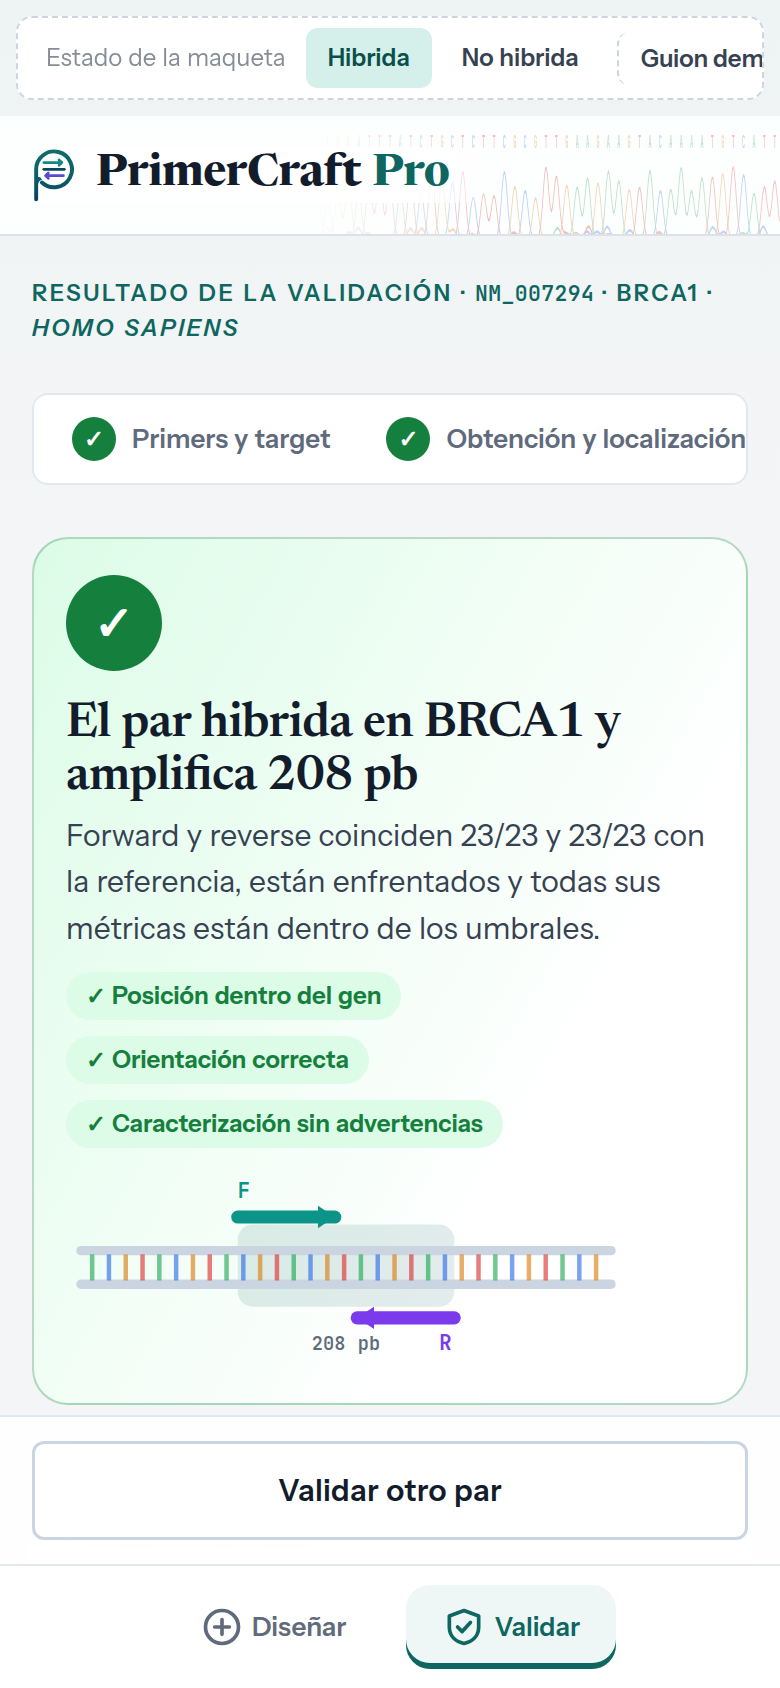
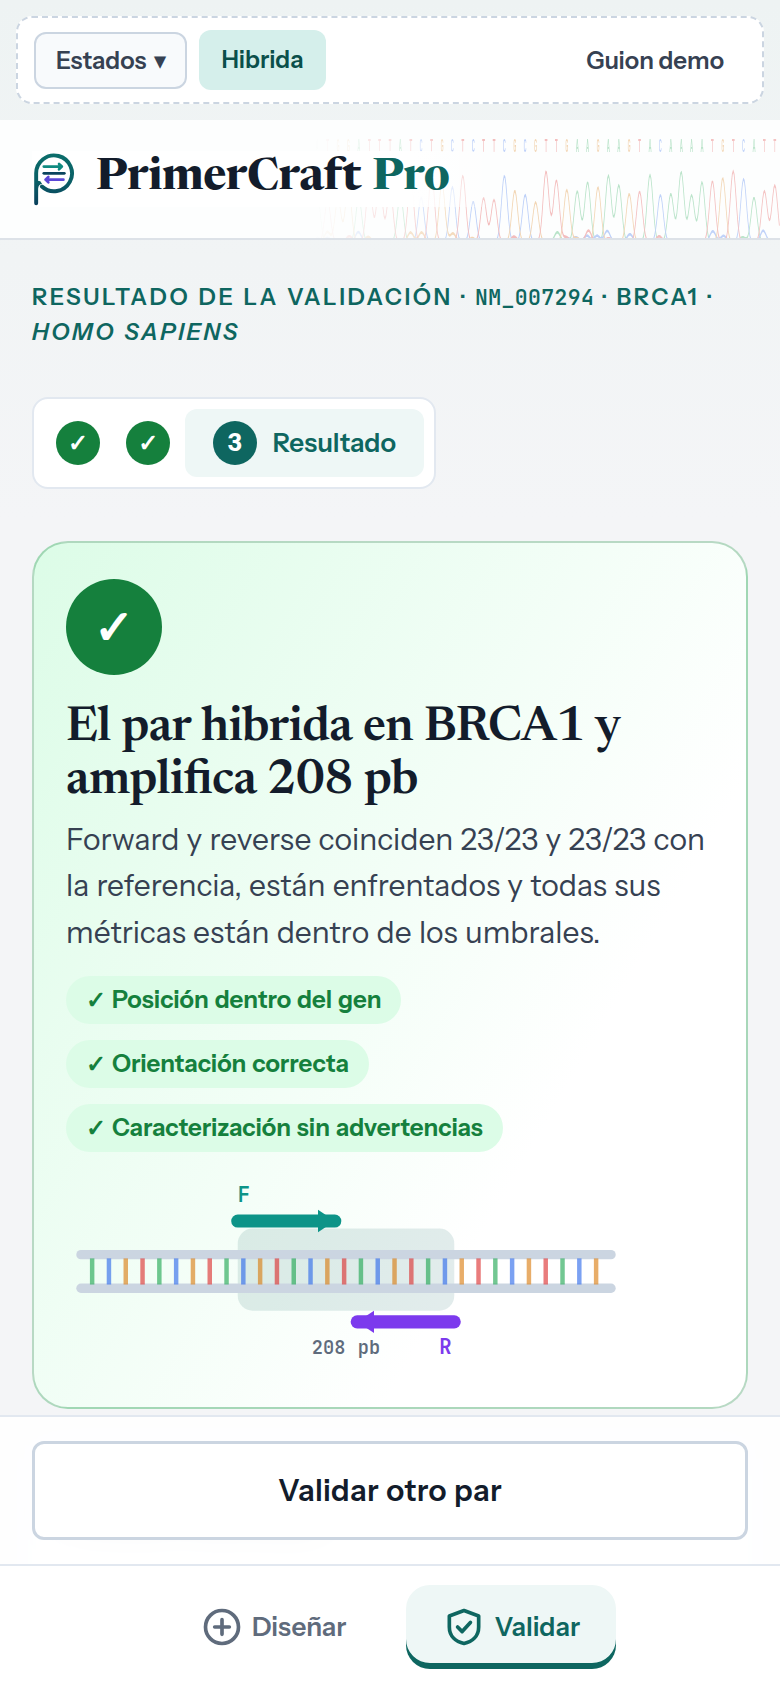
fix(mockups): ajusto la barra de estados, el indicador de pasos, los filtros, la tabla y las secuencias para que se vean bien en el teléfono

diff --git a/docs/ui/mockups/hu-01-1_nueva-corrida-diseno.html b/docs/ui/mockups/hu-01-1_nueva-corrida-diseno.html
@@ -574,6 +574,62 @@ dialog.dlg .row{display:flex;gap:10px;justify-content:flex-end;margin-top:22px;f
 @media (max-width:640px){.rail .kb{display:none}.toast-host{bottom:200px}}
 @media (prefers-reduced-motion:reduce){.toast,.errsum,.flash{animation:none}::view-transition-group(*),::view-transition-old(*),::view-transition-new(*){animation:none!important}}
 </style>
+<style id="ajustes-telefono">
+/* ===== Ajustes para teléfono =====
+   La barra "Estado de la maqueta" se pliega: muestra el estado actual y "Estados" despliega el resto.
+   El indicador de pasos muestra el texto solo en el paso actual. */
+.mock .mtog,.mock .mbr{display:none}
+@media (max-width:640px){
+  .mock{flex-wrap:wrap;white-space:normal;overflow:visible;gap:6px;padding:6px 8px;align-items:center}
+  .mock em{display:none}
+  .mock .mtog{display:inline-flex;align-items:center;gap:4px;order:0;border:1px solid var(--line-2);background:var(--surface-2);font:600 12px var(--sans);color:var(--ink-2);padding:6px 10px;border-radius:6px;cursor:pointer}
+  .mock .mtog::after{content:"▾";font-size:11px}
+  .mock.open .mtog::after{content:"▴"}
+  .mock label{order:1}
+  .mock:not(.open) label{display:none}
+  .mock:not(.open) :is(#st1:checked~.mock label[for=st1],#st2:checked~.mock label[for=st2],#st3:checked~.mock label[for=st3],#st4:checked~.mock label[for=st4],#st5:checked~.mock label[for=st5],#st6:checked~.mock label[for=st6],#st7:checked~.mock label[for=st7]){display:inline-flex}
+  #st1:checked~#flujo-b:target~.mock:not(.open) label[for=st1]{display:none}
+  #st1:checked~#flujo-b:target~.mock:not(.open) label[for=st6]{display:inline-flex}
+  .mock .demo{order:2;margin-left:auto;border-left:0}
+  .mock.open .mbr{display:block;order:3;flex-basis:100%;height:0}
+  .mock.open label{order:4;display:inline-flex}
+  .demo-pop{position:static;width:auto;margin:0 8px 8px}
+  .stepper{overflow:visible}
+  .stepper span:not(.cur){font-size:0;gap:0;padding:4px 6px}
+  .seg{flex-wrap:wrap;white-space:normal;overflow:visible}
+  .ed textarea{font-size:15px;letter-spacing:.06em}
+  .seg span{flex:1 1 auto;text-align:center}
+  .aln:not(.fin){-webkit-mask-image:linear-gradient(90deg,#000 78%,transparent);mask-image:linear-gradient(90deg,#000 78%,transparent)}
+  [data-pantalla=ui-5] .tbl,[data-pantalla=ui-5] .tbl tbody{display:block;white-space:normal}
+  [data-pantalla=ui-5] .tbl thead{display:none}
+  [data-pantalla=ui-5] .tbl tr{display:grid;grid-template-columns:1fr auto;align-items:center;gap:6px 10px;padding:10px 0;border-bottom:1px solid var(--line)}
+  [data-pantalla=ui-5] .tbl td{padding:0;border:0}
+  [data-pantalla=ui-5] .tbl td:nth-child(5){grid-column:2;grid-row:1;text-align:right;font-weight:700}
+  [data-pantalla=ui-5] .tbl td:nth-child(2){grid-column:1/-1}
+  [data-pantalla=ui-5] .tbl td:nth-child(3){color:var(--muted)}
+  [data-pantalla=ui-5] .tbl td:nth-child(3)::before{content:"Hebra "}
+  [data-pantalla=ui-5] .tbl td:nth-child(4){text-align:right}
+}
+</style>
+<script>
+document.addEventListener('DOMContentLoaded', () => {
+  const m = document.querySelector('.mock');
+  if (m) {
+    const b = document.createElement('button');
+    b.type = 'button'; b.className = 'mtog'; b.textContent = 'Estados'; b.setAttribute('aria-expanded', 'false');
+    const br = document.createElement('span'); br.className = 'mbr'; br.setAttribute('aria-hidden', 'true');
+    m.prepend(b); m.append(br);
+    const cerrar = () => { m.classList.remove('open'); b.setAttribute('aria-expanded', 'false'); };
+    b.addEventListener('click', () => b.setAttribute('aria-expanded', String(m.classList.toggle('open'))));
+    document.querySelectorAll('input.st[type=radio]').forEach((r) => r.addEventListener('change', cerrar));
+  }
+  // alineaciones: el degradé del borde indica que se puede deslizar; desaparece al llegar al final
+  document.querySelectorAll('.aln').forEach((a) => {
+    const ver = () => a.classList.toggle('fin', a.scrollLeft + a.clientWidth >= a.scrollWidth - 2);
+    a.addEventListener('scroll', ver, { passive: true }); ver(); window.addEventListener('resize', ver);
+  });
+});
+</script>
 </head>
 <body data-pantalla="ui-1">
 <a class="skip" href="#contenido">Saltar al contenido</a>

diff --git a/docs/ui/mockups/hu-03-1_validar-primer.html b/docs/ui/mockups/hu-03-1_validar-primer.html
@@ -567,6 +567,62 @@ dialog.dlg .row{display:flex;gap:10px;justify-content:flex-end;margin-top:22px;f
 @media (max-width:640px){.rail .kb{display:none}.toast-host{bottom:200px}}
 @media (prefers-reduced-motion:reduce){.toast,.errsum,.flash{animation:none}::view-transition-group(*),::view-transition-old(*),::view-transition-new(*){animation:none!important}}
 </style>
+<style id="ajustes-telefono">
+/* ===== Ajustes para teléfono =====
+   La barra "Estado de la maqueta" se pliega: muestra el estado actual y "Estados" despliega el resto.
+   El indicador de pasos muestra el texto solo en el paso actual. */
+.mock .mtog,.mock .mbr{display:none}
+@media (max-width:640px){
+  .mock{flex-wrap:wrap;white-space:normal;overflow:visible;gap:6px;padding:6px 8px;align-items:center}
+  .mock em{display:none}
+  .mock .mtog{display:inline-flex;align-items:center;gap:4px;order:0;border:1px solid var(--line-2);background:var(--surface-2);font:600 12px var(--sans);color:var(--ink-2);padding:6px 10px;border-radius:6px;cursor:pointer}
+  .mock .mtog::after{content:"▾";font-size:11px}
+  .mock.open .mtog::after{content:"▴"}
+  .mock label{order:1}
+  .mock:not(.open) label{display:none}
+  .mock:not(.open) :is(#st1:checked~.mock label[for=st1],#st2:checked~.mock label[for=st2],#st3:checked~.mock label[for=st3],#st4:checked~.mock label[for=st4],#st5:checked~.mock label[for=st5],#st6:checked~.mock label[for=st6],#st7:checked~.mock label[for=st7]){display:inline-flex}
+  #st1:checked~#flujo-b:target~.mock:not(.open) label[for=st1]{display:none}
+  #st1:checked~#flujo-b:target~.mock:not(.open) label[for=st6]{display:inline-flex}
+  .mock .demo{order:2;margin-left:auto;border-left:0}
+  .mock.open .mbr{display:block;order:3;flex-basis:100%;height:0}
+  .mock.open label{order:4;display:inline-flex}
+  .demo-pop{position:static;width:auto;margin:0 8px 8px}
+  .stepper{overflow:visible}
+  .stepper span:not(.cur){font-size:0;gap:0;padding:4px 6px}
+  .seg{flex-wrap:wrap;white-space:normal;overflow:visible}
+  .ed textarea{font-size:15px;letter-spacing:.06em}
+  .seg span{flex:1 1 auto;text-align:center}
+  .aln:not(.fin){-webkit-mask-image:linear-gradient(90deg,#000 78%,transparent);mask-image:linear-gradient(90deg,#000 78%,transparent)}
+  [data-pantalla=ui-5] .tbl,[data-pantalla=ui-5] .tbl tbody{display:block;white-space:normal}
+  [data-pantalla=ui-5] .tbl thead{display:none}
+  [data-pantalla=ui-5] .tbl tr{display:grid;grid-template-columns:1fr auto;align-items:center;gap:6px 10px;padding:10px 0;border-bottom:1px solid var(--line)}
+  [data-pantalla=ui-5] .tbl td{padding:0;border:0}
+  [data-pantalla=ui-5] .tbl td:nth-child(5){grid-column:2;grid-row:1;text-align:right;font-weight:700}
+  [data-pantalla=ui-5] .tbl td:nth-child(2){grid-column:1/-1}
+  [data-pantalla=ui-5] .tbl td:nth-child(3){color:var(--muted)}
+  [data-pantalla=ui-5] .tbl td:nth-child(3)::before{content:"Hebra "}
+  [data-pantalla=ui-5] .tbl td:nth-child(4){text-align:right}
+}
+</style>
+<script>
+document.addEventListener('DOMContentLoaded', () => {
+  const m = document.querySelector('.mock');
+  if (m) {
+    const b = document.createElement('button');
+    b.type = 'button'; b.className = 'mtog'; b.textContent = 'Estados'; b.setAttribute('aria-expanded', 'false');
+    const br = document.createElement('span'); br.className = 'mbr'; br.setAttribute('aria-hidden', 'true');
+    m.prepend(b); m.append(br);
+    const cerrar = () => { m.classList.remove('open'); b.setAttribute('aria-expanded', 'false'); };
+    b.addEventListener('click', () => b.setAttribute('aria-expanded', String(m.classList.toggle('open'))));
+    document.querySelectorAll('input.st[type=radio]').forEach((r) => r.addEventListener('change', cerrar));
+  }
+  // alineaciones: el degradé del borde indica que se puede deslizar; desaparece al llegar al final
+  document.querySelectorAll('.aln').forEach((a) => {
+    const ver = () => a.classList.toggle('fin', a.scrollLeft + a.clientWidth >= a.scrollWidth - 2);
+    a.addEventListener('scroll', ver, { passive: true }); ver(); window.addEventListener('resize', ver);
+  });
+});
+</script>
 </head>
 <body data-pantalla="ui-4">
 <a class="skip" href="#contenido">Saltar al contenido</a>

diff --git a/docs/ui/mockups/hu-03-3_resultado-validacion.html b/docs/ui/mockups/hu-03-3_resultado-validacion.html
@@ -574,6 +574,62 @@ dialog.dlg .row{display:flex;gap:10px;justify-content:flex-end;margin-top:22px;f
 @media (max-width:640px){.rail .kb{display:none}.toast-host{bottom:200px}}
 @media (prefers-reduced-motion:reduce){.toast,.errsum,.flash{animation:none}::view-transition-group(*),::view-transition-old(*),::view-transition-new(*){animation:none!important}}
 </style>
+<style id="ajustes-telefono">
+/* ===== Ajustes para teléfono =====
+   La barra "Estado de la maqueta" se pliega: muestra el estado actual y "Estados" despliega el resto.
+   El indicador de pasos muestra el texto solo en el paso actual. */
+.mock .mtog,.mock .mbr{display:none}
+@media (max-width:640px){
+  .mock{flex-wrap:wrap;white-space:normal;overflow:visible;gap:6px;padding:6px 8px;align-items:center}
+  .mock em{display:none}
+  .mock .mtog{display:inline-flex;align-items:center;gap:4px;order:0;border:1px solid var(--line-2);background:var(--surface-2);font:600 12px var(--sans);color:var(--ink-2);padding:6px 10px;border-radius:6px;cursor:pointer}
+  .mock .mtog::after{content:"▾";font-size:11px}
+  .mock.open .mtog::after{content:"▴"}
+  .mock label{order:1}
+  .mock:not(.open) label{display:none}
+  .mock:not(.open) :is(#st1:checked~.mock label[for=st1],#st2:checked~.mock label[for=st2],#st3:checked~.mock label[for=st3],#st4:checked~.mock label[for=st4],#st5:checked~.mock label[for=st5],#st6:checked~.mock label[for=st6],#st7:checked~.mock label[for=st7]){display:inline-flex}
+  #st1:checked~#flujo-b:target~.mock:not(.open) label[for=st1]{display:none}
+  #st1:checked~#flujo-b:target~.mock:not(.open) label[for=st6]{display:inline-flex}
+  .mock .demo{order:2;margin-left:auto;border-left:0}
+  .mock.open .mbr{display:block;order:3;flex-basis:100%;height:0}
+  .mock.open label{order:4;display:inline-flex}
+  .demo-pop{position:static;width:auto;margin:0 8px 8px}
+  .stepper{overflow:visible}
+  .stepper span:not(.cur){font-size:0;gap:0;padding:4px 6px}
+  .seg{flex-wrap:wrap;white-space:normal;overflow:visible}
+  .ed textarea{font-size:15px;letter-spacing:.06em}
+  .seg span{flex:1 1 auto;text-align:center}
+  .aln:not(.fin){-webkit-mask-image:linear-gradient(90deg,#000 78%,transparent);mask-image:linear-gradient(90deg,#000 78%,transparent)}
+  [data-pantalla=ui-5] .tbl,[data-pantalla=ui-5] .tbl tbody{display:block;white-space:normal}
+  [data-pantalla=ui-5] .tbl thead{display:none}
+  [data-pantalla=ui-5] .tbl tr{display:grid;grid-template-columns:1fr auto;align-items:center;gap:6px 10px;padding:10px 0;border-bottom:1px solid var(--line)}
+  [data-pantalla=ui-5] .tbl td{padding:0;border:0}
+  [data-pantalla=ui-5] .tbl td:nth-child(5){grid-column:2;grid-row:1;text-align:right;font-weight:700}
+  [data-pantalla=ui-5] .tbl td:nth-child(2){grid-column:1/-1}
+  [data-pantalla=ui-5] .tbl td:nth-child(3){color:var(--muted)}
+  [data-pantalla=ui-5] .tbl td:nth-child(3)::before{content:"Hebra "}
+  [data-pantalla=ui-5] .tbl td:nth-child(4){text-align:right}
+}
+</style>
+<script>
+document.addEventListener('DOMContentLoaded', () => {
+  const m = document.querySelector('.mock');
+  if (m) {
+    const b = document.createElement('button');
+    b.type = 'button'; b.className = 'mtog'; b.textContent = 'Estados'; b.setAttribute('aria-expanded', 'false');
+    const br = document.createElement('span'); br.className = 'mbr'; br.setAttribute('aria-hidden', 'true');
+    m.prepend(b); m.append(br);
+    const cerrar = () => { m.classList.remove('open'); b.setAttribute('aria-expanded', 'false'); };
+    b.addEventListener('click', () => b.setAttribute('aria-expanded', String(m.classList.toggle('open'))));
+    document.querySelectorAll('input.st[type=radio]').forEach((r) => r.addEventListener('change', cerrar));
+  }
+  // alineaciones: el degradé del borde indica que se puede deslizar; desaparece al llegar al final
+  document.querySelectorAll('.aln').forEach((a) => {
+    const ver = () => a.classList.toggle('fin', a.scrollLeft + a.clientWidth >= a.scrollWidth - 2);
+    a.addEventListener('scroll', ver, { passive: true }); ver(); window.addEventListener('resize', ver);
+  });
+});
+</script>
 </head>
 <body data-pantalla="ui-5">
 <a class="skip" href="#contenido">Saltar al contenido</a>

diff --git a/docs/ui/mockups/hu-04_hu-02-1_progreso-corrida.html b/docs/ui/mockups/hu-04_hu-02-1_progreso-corrida.html
@@ -598,6 +598,62 @@ dialog.dlg .row{display:flex;gap:10px;justify-content:flex-end;margin-top:22px;f
 @media (max-width:640px){.rail .kb{display:none}.toast-host{bottom:200px}}
 @media (prefers-reduced-motion:reduce){.toast,.errsum,.flash{animation:none}::view-transition-group(*),::view-transition-old(*),::view-transition-new(*){animation:none!important}}
 </style>
+<style id="ajustes-telefono">
+/* ===== Ajustes para teléfono =====
+   La barra "Estado de la maqueta" se pliega: muestra el estado actual y "Estados" despliega el resto.
+   El indicador de pasos muestra el texto solo en el paso actual. */
+.mock .mtog,.mock .mbr{display:none}
+@media (max-width:640px){
+  .mock{flex-wrap:wrap;white-space:normal;overflow:visible;gap:6px;padding:6px 8px;align-items:center}
+  .mock em{display:none}
+  .mock .mtog{display:inline-flex;align-items:center;gap:4px;order:0;border:1px solid var(--line-2);background:var(--surface-2);font:600 12px var(--sans);color:var(--ink-2);padding:6px 10px;border-radius:6px;cursor:pointer}
+  .mock .mtog::after{content:"▾";font-size:11px}
+  .mock.open .mtog::after{content:"▴"}
+  .mock label{order:1}
+  .mock:not(.open) label{display:none}
+  .mock:not(.open) :is(#st1:checked~.mock label[for=st1],#st2:checked~.mock label[for=st2],#st3:checked~.mock label[for=st3],#st4:checked~.mock label[for=st4],#st5:checked~.mock label[for=st5],#st6:checked~.mock label[for=st6],#st7:checked~.mock label[for=st7]){display:inline-flex}
+  #st1:checked~#flujo-b:target~.mock:not(.open) label[for=st1]{display:none}
+  #st1:checked~#flujo-b:target~.mock:not(.open) label[for=st6]{display:inline-flex}
+  .mock .demo{order:2;margin-left:auto;border-left:0}
+  .mock.open .mbr{display:block;order:3;flex-basis:100%;height:0}
+  .mock.open label{order:4;display:inline-flex}
+  .demo-pop{position:static;width:auto;margin:0 8px 8px}
+  .stepper{overflow:visible}
+  .stepper span:not(.cur){font-size:0;gap:0;padding:4px 6px}
+  .seg{flex-wrap:wrap;white-space:normal;overflow:visible}
+  .ed textarea{font-size:15px;letter-spacing:.06em}
+  .seg span{flex:1 1 auto;text-align:center}
+  .aln:not(.fin){-webkit-mask-image:linear-gradient(90deg,#000 78%,transparent);mask-image:linear-gradient(90deg,#000 78%,transparent)}
+  [data-pantalla=ui-5] .tbl,[data-pantalla=ui-5] .tbl tbody{display:block;white-space:normal}
+  [data-pantalla=ui-5] .tbl thead{display:none}
+  [data-pantalla=ui-5] .tbl tr{display:grid;grid-template-columns:1fr auto;align-items:center;gap:6px 10px;padding:10px 0;border-bottom:1px solid var(--line)}
+  [data-pantalla=ui-5] .tbl td{padding:0;border:0}
+  [data-pantalla=ui-5] .tbl td:nth-child(5){grid-column:2;grid-row:1;text-align:right;font-weight:700}
+  [data-pantalla=ui-5] .tbl td:nth-child(2){grid-column:1/-1}
+  [data-pantalla=ui-5] .tbl td:nth-child(3){color:var(--muted)}
+  [data-pantalla=ui-5] .tbl td:nth-child(3)::before{content:"Hebra "}
+  [data-pantalla=ui-5] .tbl td:nth-child(4){text-align:right}
+}
+</style>
+<script>
+document.addEventListener('DOMContentLoaded', () => {
+  const m = document.querySelector('.mock');
+  if (m) {
+    const b = document.createElement('button');
+    b.type = 'button'; b.className = 'mtog'; b.textContent = 'Estados'; b.setAttribute('aria-expanded', 'false');
+    const br = document.createElement('span'); br.className = 'mbr'; br.setAttribute('aria-hidden', 'true');
+    m.prepend(b); m.append(br);
+    const cerrar = () => { m.classList.remove('open'); b.setAttribute('aria-expanded', 'false'); };
+    b.addEventListener('click', () => b.setAttribute('aria-expanded', String(m.classList.toggle('open'))));
+    document.querySelectorAll('input.st[type=radio]').forEach((r) => r.addEventListener('change', cerrar));
+  }
+  // alineaciones: el degradé del borde indica que se puede deslizar; desaparece al llegar al final
+  document.querySelectorAll('.aln').forEach((a) => {
+    const ver = () => a.classList.toggle('fin', a.scrollLeft + a.clientWidth >= a.scrollWidth - 2);
+    a.addEventListener('scroll', ver, { passive: true }); ver(); window.addEventListener('resize', ver);
+  });
+});
+</script>
 </head>
 <body data-pantalla="ui-2">
 <a class="skip" href="#contenido">Saltar al contenido</a>

diff --git a/docs/ui/mockups/hu-05_resultados-candidatos.html b/docs/ui/mockups/hu-05_resultados-candidatos.html
@@ -604,6 +604,62 @@ dialog.dlg .row{display:flex;gap:10px;justify-content:flex-end;margin-top:22px;f
 @media (max-width:640px){.rail .kb{display:none}.toast-host{bottom:200px}}
 @media (prefers-reduced-motion:reduce){.toast,.errsum,.flash{animation:none}::view-transition-group(*),::view-transition-old(*),::view-transition-new(*){animation:none!important}}
 </style>
+<style id="ajustes-telefono">
+/* ===== Ajustes para teléfono =====
+   La barra "Estado de la maqueta" se pliega: muestra el estado actual y "Estados" despliega el resto.
+   El indicador de pasos muestra el texto solo en el paso actual. */
+.mock .mtog,.mock .mbr{display:none}
+@media (max-width:640px){
+  .mock{flex-wrap:wrap;white-space:normal;overflow:visible;gap:6px;padding:6px 8px;align-items:center}
+  .mock em{display:none}
+  .mock .mtog{display:inline-flex;align-items:center;gap:4px;order:0;border:1px solid var(--line-2);background:var(--surface-2);font:600 12px var(--sans);color:var(--ink-2);padding:6px 10px;border-radius:6px;cursor:pointer}
+  .mock .mtog::after{content:"▾";font-size:11px}
+  .mock.open .mtog::after{content:"▴"}
+  .mock label{order:1}
+  .mock:not(.open) label{display:none}
+  .mock:not(.open) :is(#st1:checked~.mock label[for=st1],#st2:checked~.mock label[for=st2],#st3:checked~.mock label[for=st3],#st4:checked~.mock label[for=st4],#st5:checked~.mock label[for=st5],#st6:checked~.mock label[for=st6],#st7:checked~.mock label[for=st7]){display:inline-flex}
+  #st1:checked~#flujo-b:target~.mock:not(.open) label[for=st1]{display:none}
+  #st1:checked~#flujo-b:target~.mock:not(.open) label[for=st6]{display:inline-flex}
+  .mock .demo{order:2;margin-left:auto;border-left:0}
+  .mock.open .mbr{display:block;order:3;flex-basis:100%;height:0}
+  .mock.open label{order:4;display:inline-flex}
+  .demo-pop{position:static;width:auto;margin:0 8px 8px}
+  .stepper{overflow:visible}
+  .stepper span:not(.cur){font-size:0;gap:0;padding:4px 6px}
+  .seg{flex-wrap:wrap;white-space:normal;overflow:visible}
+  .ed textarea{font-size:15px;letter-spacing:.06em}
+  .seg span{flex:1 1 auto;text-align:center}
+  .aln:not(.fin){-webkit-mask-image:linear-gradient(90deg,#000 78%,transparent);mask-image:linear-gradient(90deg,#000 78%,transparent)}
+  [data-pantalla=ui-5] .tbl,[data-pantalla=ui-5] .tbl tbody{display:block;white-space:normal}
+  [data-pantalla=ui-5] .tbl thead{display:none}
+  [data-pantalla=ui-5] .tbl tr{display:grid;grid-template-columns:1fr auto;align-items:center;gap:6px 10px;padding:10px 0;border-bottom:1px solid var(--line)}
+  [data-pantalla=ui-5] .tbl td{padding:0;border:0}
+  [data-pantalla=ui-5] .tbl td:nth-child(5){grid-column:2;grid-row:1;text-align:right;font-weight:700}
+  [data-pantalla=ui-5] .tbl td:nth-child(2){grid-column:1/-1}
+  [data-pantalla=ui-5] .tbl td:nth-child(3){color:var(--muted)}
+  [data-pantalla=ui-5] .tbl td:nth-child(3)::before{content:"Hebra "}
+  [data-pantalla=ui-5] .tbl td:nth-child(4){text-align:right}
+}
+</style>
+<script>
+document.addEventListener('DOMContentLoaded', () => {
+  const m = document.querySelector('.mock');
+  if (m) {
+    const b = document.createElement('button');
+    b.type = 'button'; b.className = 'mtog'; b.textContent = 'Estados'; b.setAttribute('aria-expanded', 'false');
+    const br = document.createElement('span'); br.className = 'mbr'; br.setAttribute('aria-hidden', 'true');
+    m.prepend(b); m.append(br);
+    const cerrar = () => { m.classList.remove('open'); b.setAttribute('aria-expanded', 'false'); };
+    b.addEventListener('click', () => b.setAttribute('aria-expanded', String(m.classList.toggle('open'))));
+    document.querySelectorAll('input.st[type=radio]').forEach((r) => r.addEventListener('change', cerrar));
+  }
+  // alineaciones: el degradé del borde indica que se puede deslizar; desaparece al llegar al final
+  document.querySelectorAll('.aln').forEach((a) => {
+    const ver = () => a.classList.toggle('fin', a.scrollLeft + a.clientWidth >= a.scrollWidth - 2);
+    a.addEventListener('scroll', ver, { passive: true }); ver(); window.addEventListener('resize', ver);
+  });
+});
+</script>
 </head>
 <body data-pantalla="ui-3">
 <a class="skip" href="#contenido">Saltar al contenido</a>
